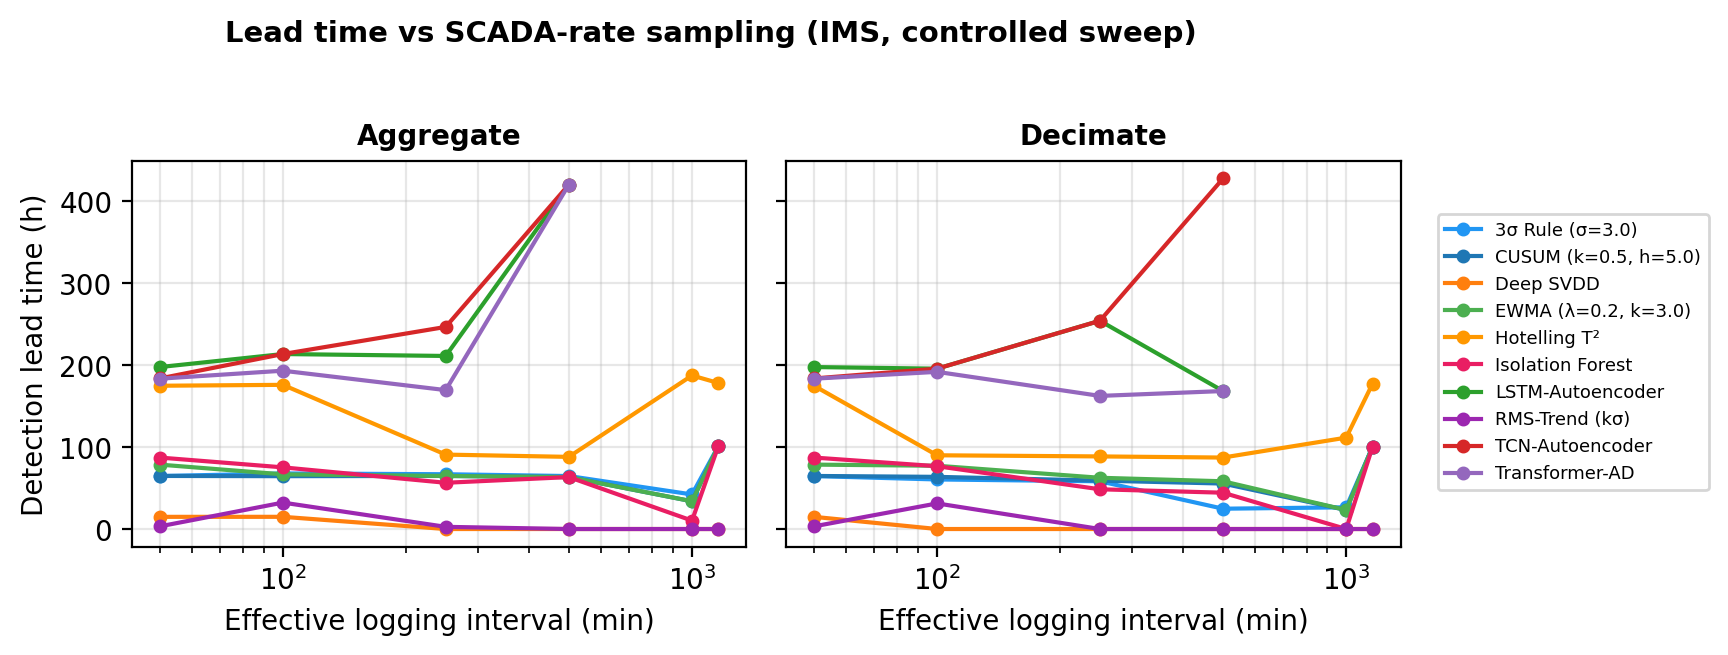
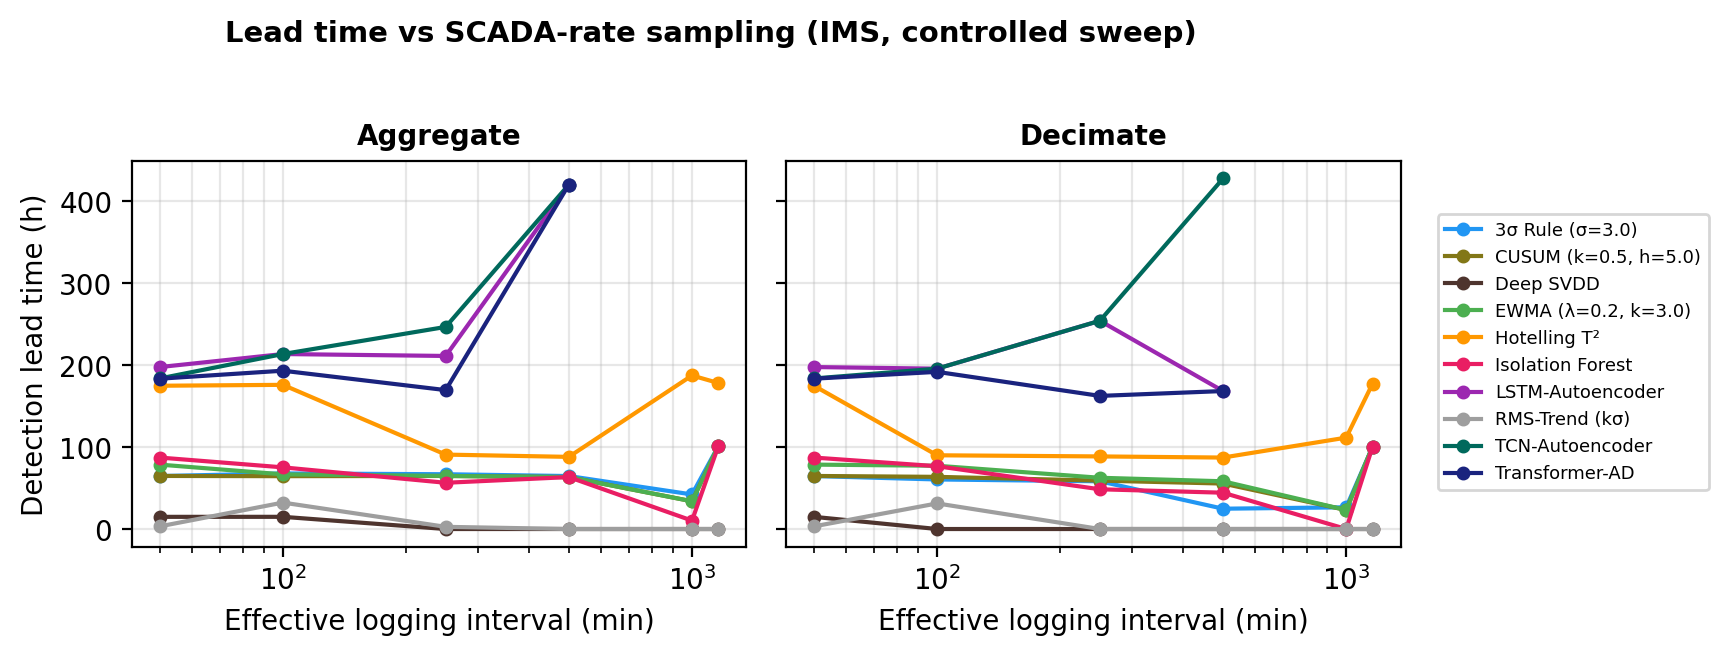
fix(figures): regenerate every figure affected by the colour fix and by N-23
paper/make_figures.py kept a SECOND colour table -- five entries keyed by the long
display name -- which diverged from src/config.py: it painted RMS-Trend "#9C27B0",
LSTM-AE's canonical colour, and left the other five detectors to matplotlib's default
cycle. In the submitted Figure 3 that put EWMA and LSTM-AE in the same green and
Hotelling T-squared and Deep SVDD in the same orange. It now resolves colours by
short_name from src.config.PLOT["method_colors"], the single source of truth.

Regenerated:
  fig_sweep.png          10 detectors, all now distinct (was 2 colliding pairs)
  fig_tradeoff_ims.png    7 detectors (CUSUM, Deep SVDD, RMS-Trend were colliding)
  fig_tradeoff_xjtu.png   5 detectors (RMS-Trend was colliding)
  fig_tradeoff_panels.png recomposed, identical 2382x853 geometry
  fig_mintrain.png        N-23 data; the three sequence models now start at 0.167
                          rather than 0.200 at T=0.20. SPC baseline still 0.62.

Unaffected and not regenerated: figure1 (no per-detector colour), fig_crossdataset
(coloured by dataset), fig_conformal_panels (calibration, no method colours).

New paper/make_tradeoff_panels.py re-plots the trade-off panels from the saved
aggregate CSVs with no in-plot title, replacing the pixel-crop step that RD-11..RD-14
previously required; no detectors are re-run.

diff --git a/paper/make_figures.py b/paper/make_figures.py
@@ -19,11 +19,20 @@ TAB = os.path.join(ROOT, "results", "tables")
 RFIG = os.path.join(ROOT, "results", "figures")
 os.makedirs(FIGS, exist_ok=True)
 
-METHOD_COLORS = {
-    "3σ Rule (σ=3.0)": "#2196F3", "EWMA (λ=0.2, k=3.0)": "#4CAF50",
-    "Hotelling T²": "#FF9800", "Isolation Forest": "#E91E63",
-    "RMS-Trend (kσ)": "#9C27B0",
-}
+# Single source of truth for detector colours: src.config.PLOT["method_colors"],
+# keyed by short_name. This module previously kept its own five-entry table keyed by
+# the long display name, which (a) left the other five detectors to matplotlib's
+# default cycle -- duplicating 3-sigma / Hotelling / EWMA -- and (b) painted
+# RMS-Trend "#9C27B0", which is LSTM-AE's canonical colour. Resolve by short_name.
+from src.config import PLOT as _PLOT
+
+METHOD_COLORS = dict(_PLOT["method_colors"])
+
+
+def _color_for(short_name):
+    """Canonical colour for a detector. Returns None only for a genuinely unknown
+    short_name, which is loud in review rather than silently recycled."""
+    return METHOD_COLORS.get(short_name)
 
 
 def fig_rms_degradation():
@@ -67,17 +76,18 @@ def fig_leadtime_vs_sampling():
     # D-2: IMS is re-baselined onto the 49-dim invariant schema (legacy file kept for the letter).
     long = pd.read_csv(os.path.join(TAB, "benchmark_IMS_long_invariant.csv"))
     # mean across runs per (mode, factor, method)
-    g = (long.groupby(["mode", "factor", "effective_interval_min", "method"])
+    g = (long.groupby(["mode", "factor", "effective_interval_min",
+                       "method", "short_name"])
          ["lead_time_hours"].mean().reset_index())
     modes = ["aggregate", "decimate"]
     fig, axes = plt.subplots(1, 2, figsize=(7.2, 3.2), sharey=True)
     for ax, mode in zip(axes, modes):
         sub = g[g["mode"] == mode]
-        for m, ms in sub.groupby("method"):
+        for (m, sn), ms in sub.groupby(["method", "short_name"]):
             ms = ms.sort_values("effective_interval_min")
             ax.plot(ms["effective_interval_min"], ms["lead_time_hours"],
                     "o-", markersize=4, linewidth=1.5,
-                    color=METHOD_COLORS.get(m), label=m)
+                    color=_color_for(sn), label=m)
         ax.set_xscale("log")
         ax.set_xlabel("Effective logging interval (min)")
         ax.set_title(mode.capitalize(), fontsize=10, fontweight="bold")
